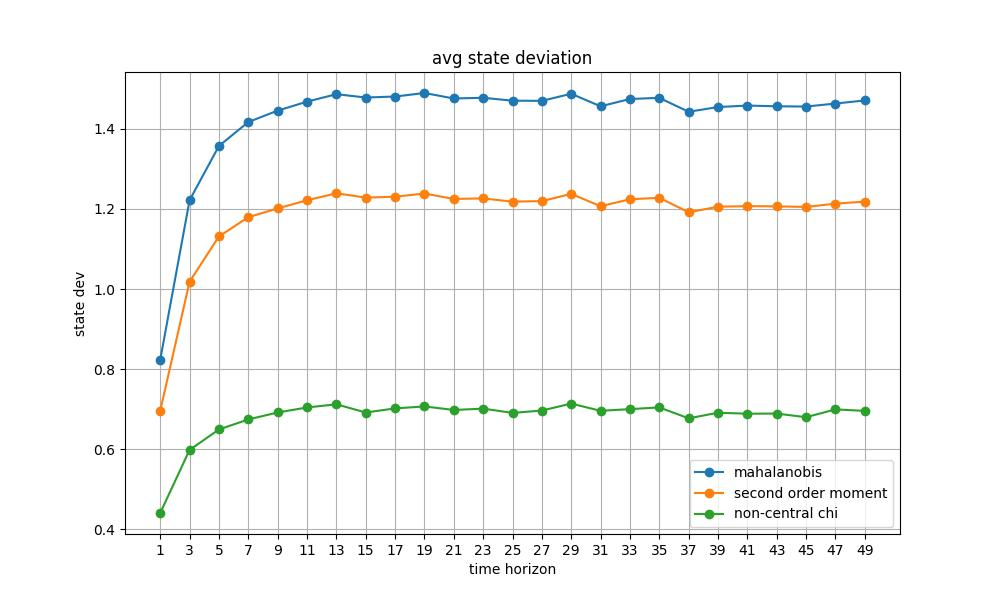
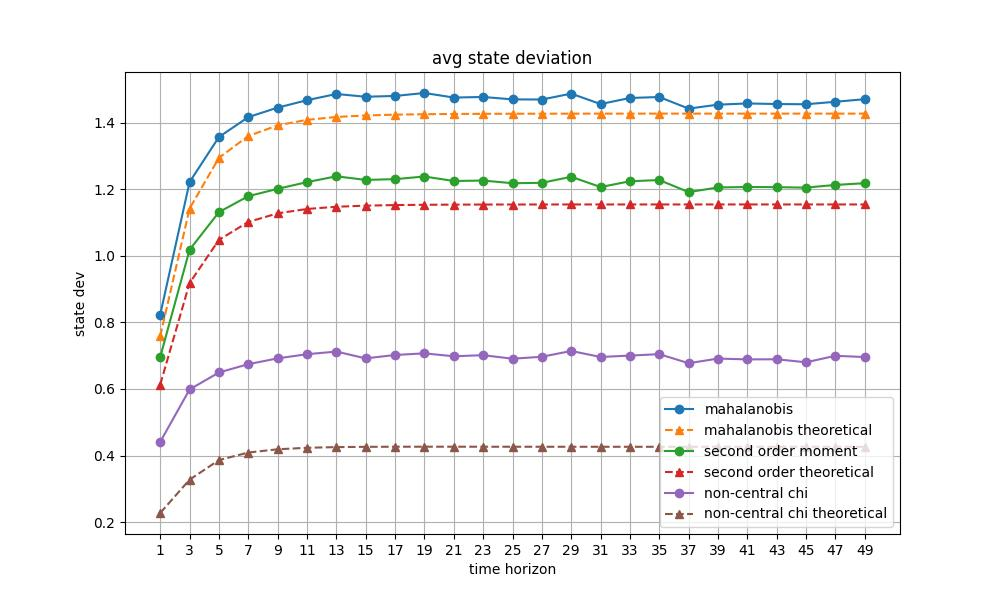
up

diff --git a/chi/chi3.py b/chi/chi3.py
@@ -66,6 +66,10 @@ x4_dev = []
 x5_dev = []
 x6_dev = []
 
+tdev1 = []
+tdev3 = []
+tdev5 = []
+
 g1 = []
 g2 = []
 g3 = []
@@ -334,6 +338,12 @@ for t in T_list:
         s5.append(x5T)
         s6.append(x6T)
 
+    
+    tdev1.append(np.linalg.norm(C_T @ u_convex + b))
+    tdev3.append(np.linalg.norm(C_T @ u_c3 + b))
+    tdev5.append(np.linalg.norm(C_T @ u_c5 + b))
+
+
     count1 = sum(d <= epsilon for d in x1)    
     ratios1.append(count1/2000)
     count2 = sum(d <= epsilon for d in x2)
@@ -495,8 +505,11 @@ plt.close()
 plt.figure(figsize = (10,6))
 
 plt.plot(T_list, x3_dev, 'o-', label = 'mahalanobis')
+plt.plot(T_list, tdev3, '^--', label = 'mahalanobis theoretical')
 plt.plot(T_list, x1_dev,'o-',  label = 'second order moment')
+plt.plot(T_list, tdev1, '^--', label = 'second order theoretical')
 plt.plot(T_list, x5_dev, 'o-', label = 'non-central chi')
+plt.plot(T_list, tdev5, '^--', label = 'non-central chi theoretical')
 # plt.plot(T_list, x6_dev, 'o-', label = 'marc' )
 plt.xlabel('time horizon')
 plt.ylabel('state dev')
